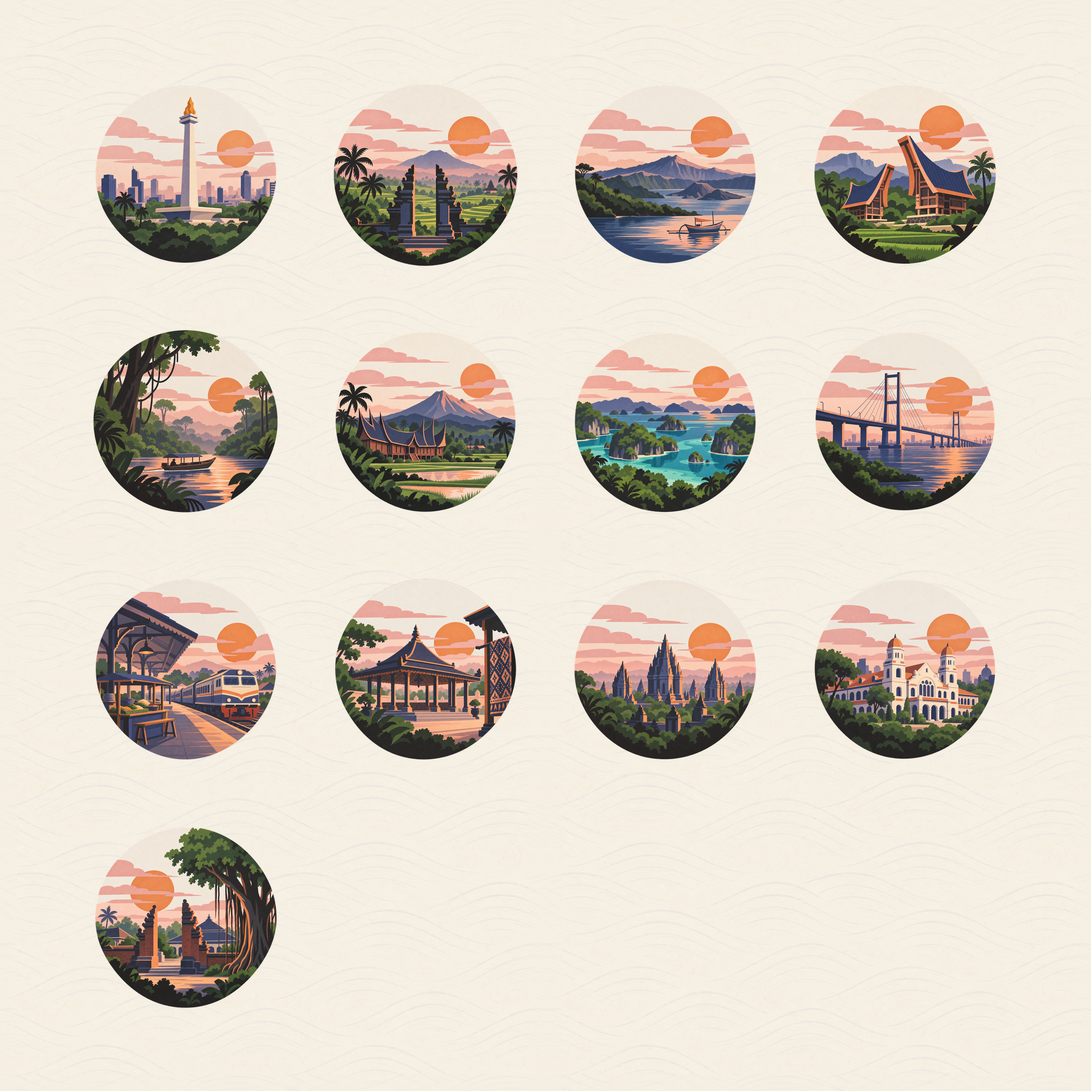
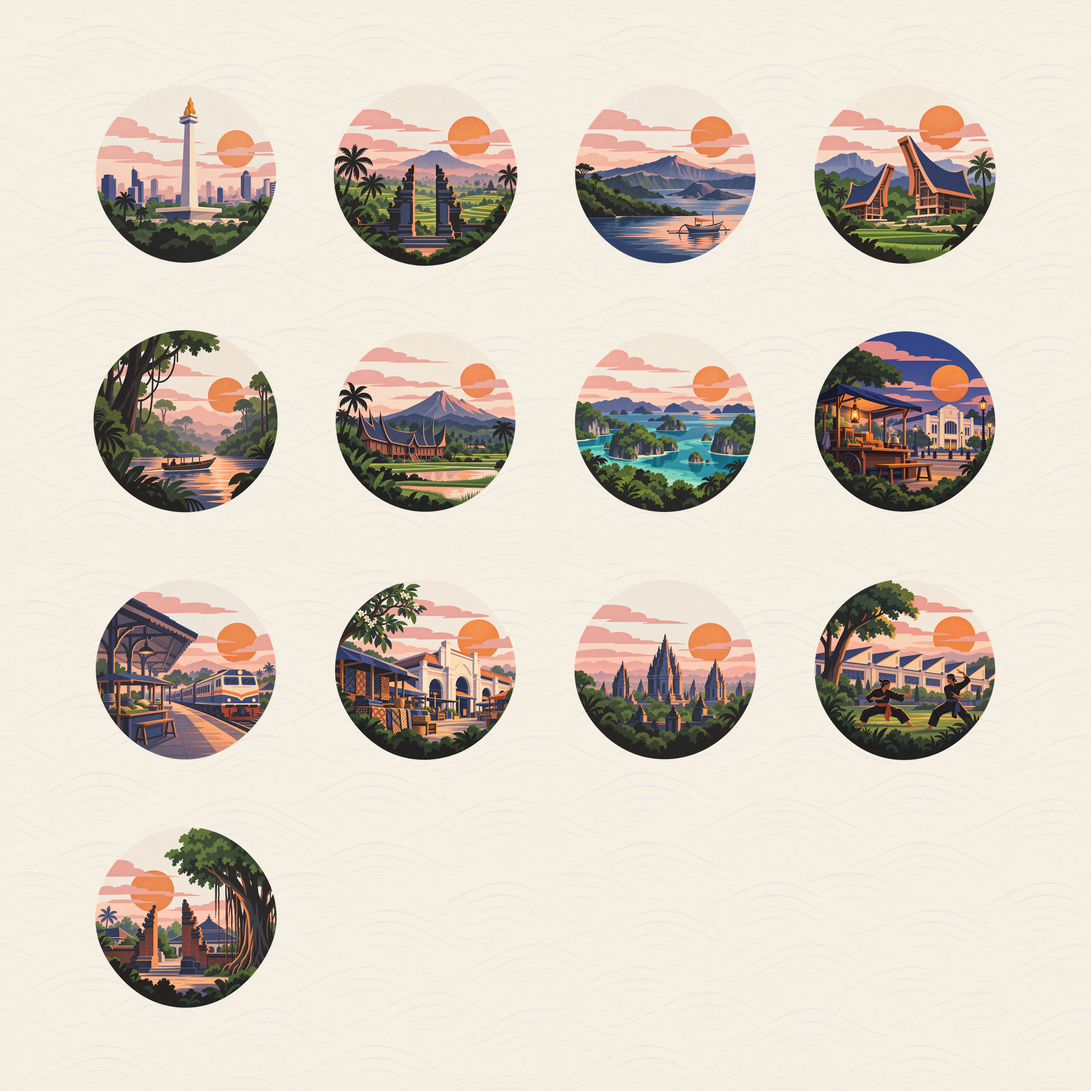
Journey Map: Jogja and Madiun vignettes for J1, J3, J5; faces for Mbak Sekar and Mas Danang
The Javanese route is now Yogyakarta and Madiun only. Codex prompt 5b
replaced the Surabaya, Solo and Semarang vignettes with Malioboro (an
angkringan by Tugu station), Beringharjo market, and Madiun Kota
Pendekar (pencak silat by the railway workshop). The old files are
removed so no art is orphaned. The two Javanese Radio hosts get their
portraits, which the Radio player picks up through the cast registry.

Claude-Session: https://claude.ai/code/session_01TjNARVkaoGmAHnjntu9hvk

Changed region(s): [[0.75, 0.2812, 0.9375, 0.4688], [0.2812, 0.5312, 0.5, 0.6875], [0.75, 0.5312, 0.9375, 0.6875]]

diff --git a/crates/app/src/map_art.rs b/crates/app/src/map_art.rs
@@ -23,11 +23,11 @@ const VIGNETTES: [(&str, &[u8], &[u8]); 13] = [
     ("bipa5", art!("kalimantan"), art!("kalimantan-sm")),
     ("bipa6", art!("sumatra"), art!("sumatra-sm")),
     ("bipa7", art!("raja-ampat"), art!("raja-ampat-sm")),
-    ("j1", art!("surabaya"), art!("surabaya-sm")),
+    ("j1", art!("malioboro"), art!("malioboro-sm")),
     ("j2", art!("madiun"), art!("madiun-sm")),
-    ("j3", art!("solo"), art!("solo-sm")),
+    ("j3", art!("beringharjo"), art!("beringharjo-sm")),
     ("j4", art!("yogyakarta"), art!("yogyakarta-sm")),
-    ("j5", art!("semarang"), art!("semarang-sm")),
+    ("j5", art!("madiun-pendekar"), art!("madiun-pendekar-sm")),
     ("j6", art!("kotagede"), art!("kotagede-sm")),
 ];
 

diff --git a/scripts/assets/export_map.py b/scripts/assets/export_map.py
@@ -16,8 +16,8 @@ OUT = ROOT / "assets" / "export" / "map"
 BACKDROPS = ("paper-light", "paper-dark")
 VIGNETTES = (
     "jakarta", "bali", "lombok", "sulawesi", "kalimantan", "sumatra",
-    "raja-ampat", "surabaya", "madiun", "solo", "yogyakarta", "semarang",
-    "kotagede",
+    "raja-ampat", "malioboro", "madiun", "beringharjo", "yogyakarta",
+    "madiun-pendekar", "kotagede",
 )
 RESAMPLE = Image.Resampling.LANCZOS
 

diff --git a/docs/VISUAL-ASSETS.md b/docs/VISUAL-ASSETS.md
@@ -445,12 +445,15 @@ watermarks, signatures or brands. Do not imitate any named artist.
    - sumatra.png: a Minangkabau rumah gadang with horn roofs and a volcano behind
    - raja-ampat.png: green karst islets in turquoise water
    Javanese train line (cities):
-   - surabaya.png: a long suspension bridge over a strait at dusk
+   - surabaya.png: a long suspension bridge over a strait at dusk (replaced by
+     malioboro.png, prompt 5b)
    - madiun.png: an old train station platform with a locomotive and a small pecel
      food stall
    - solo.png: a royal palace pavilion (pendopo) with batik cloth hanging nearby
+     (replaced by beringharjo.png, prompt 5b)
    - yogyakarta.png: Prambanan temple spires at dawn
    - semarang.png: a colonial building with many doors and arched windows
+     (replaced by madiun-pendekar.png, prompt 5b)
    - kotagede.png: an old Javanese mosque gate with a banyan tree
 
 SAVE: masters to assets/src/map/. With a small reproducible script in scripts/assets/ (Pillow or
@@ -465,13 +468,88 @@ Do not commit. List the files when done.
 
 ---
 
+## Prompt 5b — Jogja and Madiun (done)
+
+Mohamed narrowed the Javanese route to Yogyakarta and Madiun (2026-10-27). The J1 (Surabaya), J3 (Solo) and J5 (Semarang) vignettes of prompt 5 were replaced by `malioboro`, `beringharjo` and `madiun-pendekar`, and the two Javanese Radio hosts got their faces in the same session. The originals Codex sent are in the project files (`map/codex-5b-originals/`). The masters were resized to 1024 px, exported by `scripts/assets/export_map.py` and `export_personas.py --import`.
+
+```text
+Create new artwork for "Kabar", an Indonesian + Javanese learning app. Its Javanese
+route now runs only through Yogyakarta (Jogja) and Madiun, so three Journey Map
+vignettes and two Radio-host portraits are needed. Two parts, one session.
+
+HOW TO GENERATE (strict, both parts):
+- Use your image generation tool. Do NOT draw with code (no SVG, Pillow, Cairo or
+  canvas drawing).
+- Generate EACH image as its own separate request, directly at 1024x1024. Never make a
+  sheet, grid or collage and split it. Never upscale; only crop. No recolour or filter.
+HARD RULES (both parts): no text, letters, numbers, labels, signage, logos, name tags,
+watermarks or signatures anywhere. Do not imitate any named artist. Respectful,
+recognisable but simplified depictions; no stereotypes.
+PALETTE (both parts): Merapi charcoal #22201E, sawah green #4F8A3C, Bromo orange
+#EE8A5A, Bromo pink #E9A3A0, batik indigo #2B3A70, warm paper #F5EFE3 (plus natural
+skin and hair tones in part B).
+
+PART A: JOURNEY MAP VIGNETTES (1024x1024 PNG, transparent background)
+Match the existing set in assets/src/map/ (open jakarta.png, madiun.png and
+yogyakarta.png first, and contact-sheet.png): each a tiny self-contained scene inside a
+soft circle, like a sticker on a travel map. Calm, warm, grown-up travel-journal
+illustration; flat vector-like shapes, soft layered depth, gentle paper grain, minimal
+gradients; a low Bromo-orange sun (or moon) disc and soft pink clouds in the sky; dark
+green foliage framing the lower edge of the circle. Simple shapes, readable at 128px.
+Never childish or noisy, no glossy 3D, no photorealism.
+- malioboro.png (J1, Jogja): early evening on Malioboro street. In front, an
+  angkringan: a small wooden food cart under a canvas tarp, a kettle steaming on a
+  charcoal brazier, a warm oil lamp, a low bench. Behind, the white colonial facade of
+  Tugu railway station with its arched windows. Sky in blue hour, the orange disc as a
+  rising moon, a few lanterns glowing. No signs or writing on the cart or station.
+- beringharjo.png (J3, Jogja): the old Beringharjo market hall: a long colonial-era
+  market front with tall arched entrances, and in front of it stalls with folded
+  batik cloth in indigo and brown, and woven baskets. Morning light, the orange sun
+  low, a frangipani or banyan branch at one side.
+- madiun-pendekar.png (J5, Madiun "Kota Pendekar"): two pencak silat practitioners in
+  black pangsi outfits with sashes, mid-stance in a calm, graceful pose (not fighting
+  aggressively), on a grassy square. Behind them, the long saw-tooth roofs of Madiun's
+  old railway workshop and a teak tree. Dusk, orange sun. (The existing madiun.png
+  already shows the station platform and a pecel stall, so do NOT repeat those.)
+Check all three on contact-sheet.png next to the existing vignettes and regenerate any
+that don't match the set.
+
+PART B: PORTRAITS (1024x1024 PNG, opaque)
+Match the approved portraits in assets/src/personas/ (open kak-tiara.webp,
+kak-reza.webp and mas-dimas.webp first) exactly in hand, light and framing.
+Calm, warm, grown-up illustration; flat vector-like shapes, soft layered depth, gentle
+paper grain, warm soft light. Not photorealistic, not anime, not cartoonish. Head and
+shoulders, three-quarter view, friendly natural expression, eyes toward the viewer;
+face centred with room around it so a circle crop never cuts the head. Realistic
+proportions, no caricature. Original fictional characters: must not resemble any
+real person. Background: a soft, blurred hint of the setting.
+- mbak-sekar.png (Mbak Sekar, Yogyakarta): Kabar Radio's Javanese host, a calm Jogja
+  schoolteacher in her late 20s, hair in a neat low bun, a soft brown batik blouse,
+  studio headphones around her neck. Background: a cosy radio booth with a microphone
+  on an arm and a small gamelan gong on the shelf.
+- mas-danang.png (Mas Danang, Madiun): Kabar Radio's Javanese co-host, a cheerful
+  Madiun man in his late 20s who jokes a lot, short neat hair, a wide grin, a green
+  batik shirt with sleeves rolled up, studio headphones around his neck. Background: a
+  cosy radio booth with a microphone on an arm.
+
+SAVE: vignettes to assets/src/map/ and portraits to assets/src/personas/, with exactly
+these file names (malioboro.png, beringharjo.png, madiun-pendekar.png, mbak-sekar.png,
+mas-danang.png). Don't run any export script and don't touch other files: Kabar's own
+scripts make the web sizes.
+
+Do not commit. List the 5 files when done, and confirm each was generated natively at
+1024x1024 with the image tool.
+```
+
+---
+
 ## Prompt 6 — Portraits of the cast (6a–6e)
 
 Every recurring character in `content/cast.yaml` (except the learner) gets one portrait, named by its cast `id`: `assets/src/personas/<id>.webp`. How each one looks, and which batch draws it, is in `assets/portraits.yaml`. The prompts themselves are generated into [`assets/portrait-prompts.md`](../assets/portrait-prompts.md) by `scripts/assets/portrait_prompts.py`, so they always match the cast. Each batch is self-contained; send them one at a time:
 
 | batch | who | images |
 |---|---|---|
-| 6a | coach, chat partners, Radio hosts (with 4 expressions for the five you talk to) | 27 · **done**, in the app |
+| 6a | coach, chat partners, Radio hosts (with 4 expressions for the five you talk to) | 29 · **done**, in the app (Mbak Sekar and Mas Danang came with prompt 5b) |
 | 6b | the Sinetron cast | 11 · **done**, in the app |
 | 6c | Indonesian lessons | 11 · **done**, in the app |
 | 6d | Javanese lessons and the Unggah-Ungguh game | 11 · **done**, in the app |

diff --git a/assets/portrait-prompts.md b/assets/portrait-prompts.md
@@ -1,7 +1,7 @@
 # Portrait prompts (Codex, prompt 6a-6e)
 Generated from `content/cast.yaml` and `assets/portraits.yaml` by `scripts/assets/portrait_prompts.py`; do not edit by hand. Send one batch at a time; each is self-contained.
 
-## Prompt 6a (7 characters)
+## Prompt 6a (9 characters)
 
 ```text
 Create character portraits for "Kabar", an Indonesian + Javanese learning app.
@@ -50,13 +50,17 @@ CHARACTERS. Each file is named by the character's id; never rename a file.
   Who they are: Kabar Radio host, a Jakarta teacher who travels the journey with you. Shares a voice with Mbak Gadis.
 - kak-reza.png (Kak Reza, Bandung): a friendly Bandung office worker in his mid 30s, short hair, rimless glasses, a plain shirt with rolled sleeves, studio headphones around his neck. Background: a cosy radio booth with a microphone on an arm.
   Who they are: Kabar Radio co-host, a Bandung office worker married to Laras. Shares a voice with Mas Ardi.
+- mbak-sekar.png (Mbak Sekar, Yogyakarta): a calm Javanese schoolteacher from Yogyakarta in her late 20s, hair in a neat low bun, a soft brown batik blouse, studio headphones around her neck. Background: a cosy radio booth with a microphone on an arm and a small gamelan gong on the shelf.
+  Who they are: Kabar Radio's Javanese host, a Jogja teacher who speaks everyday Jogja ngoko with friends and shop-and-neighbour krama with elders. Shares a voice with Bu Siti.
+- mas-danang.png (Mas Danang, Madiun): a cheerful Madiun radio host in his late 20s, short neat hair, a wide grin, a green batik shirt with sleeves rolled up, studio headphones around his neck. Background: a cosy radio booth with a microphone on an arm.
+  Who they are: Kabar Radio's Javanese co-host, a Madiun lad who speaks everyday Madiun ngoko, loves pecel and jokes a lot. Replaced Mas Galih when the Javanese track became Jogja and Madiun only. Shares a voice with Mas Dimas.
 
 THEN, for kak-nur, mbak-gadis, mas-ardi, mas-dimas, bu-siti: 4 extra expressions each, with the SAME face, hair,
 clothes, framing and background: <id>-listening.png, <id>-laughing.png,
 <id>-thinking.png, <id>-explaining.png (a light hand gesture). Keep the identity
 consistent; regenerate any that drift.
 
-SAVE: all 27 masters to assets/src/personas/ with exactly the file names above.
+SAVE: all 29 masters to assets/src/personas/ with exactly the file names above.
 Nothing else: Kabar's own script (scripts/assets/export_personas.py) makes the
 web sizes and the cast sheet.
 
@@ -231,10 +235,10 @@ HARD RULES: no text, letters, numbers, logos, name tags or cards with writing,
 watermarks or signatures. Square 1024x1024 PNG.
 
 CHARACTERS. Each file is named by the character's id; never rename a file.
-- cak-heru.png (Cak Heru, Surabaya): a Surabaya man in his late 20s, a big easygoing grin, short hair, a T-shirt and an open shirt, a motorbike helmet in hand. Background: a Surabaya street with old buildings.
-  Who they are: Your Surabaya mate in J1; speaks Arek Javanese.
-- mas-yudha.png (Mas Yudha, Surabaya (Gubeng)): a Surabaya university student, early 20s, glasses, a hoodie, earbuds around his neck. Background: Gubeng station hall.
-  Who they are: A student in Surabaya you meet in J1; later sends you code-mixed voice notes.
+- cak-heru.png (Mas Heru, Yogyakarta): a Surabaya man in his late 20s, a big easygoing grin, short hair, a T-shirt and an open shirt, a motorbike helmet in hand. Background: a Surabaya street with old buildings.
+  Who they are: Runs an angkringan near Malioboro and is your Jogja mate in J1; speaks Mataraman ngoko.
+- mas-yudha.png (Mas Yudha, Yogyakarta (Kotabaru)): a Surabaya university student, early 20s, glasses, a hoodie, earbuds around his neck. Background: Gubeng station hall.
+  Who they are: A student in Jogja you meet in J1; later sends you code-mixed voice notes.
 - bu-darmi.png (Bu Darmi, Caruban): the pecel warung owner in Caruban, late 50s, a headscarf, a batik apron, a plate of pecel on a banana leaf in hand. Background: a roadside warung with a bench.
   Who they are: Runs the pecel warung in Caruban where you order food in J2.
 - pak-harjo.png (Pak Harjo, Solo): an older Javanese gentleman from Solo, late 60s, a blangkon headcloth, a lurik jacket, a dignified, patient face. Background: a Solo pendopo with carved wooden pillars.
@@ -242,7 +246,7 @@ CHARACTERS. Each file is named by the character's id; never rename a file.
 - bu-harjo.png (Bu Harjo, Solo): Pak Harjo's wife, mid 60s, hair in a neat sanggul bun, a kebaya with a batik kain, a gentle smile. Background: a Javanese house interior with a batik cloth on a stand.
   Who they are: Pak Harjo's wife.
 - mbah-putri.png (Mbah Putri, a village near Yogyakarta): Mas Dimas's grandmother, late 70s, silver hair in a bun, a kebaya and a selendang over her shoulder, deep laugh lines. Background: a village house porch near Yogyakarta with rice fields beyond.
-  Who they are: Mas Dimas's grandmother. You use krama inggil for her; she answers a guest in simple polite krama. J4 chat partner.
+  Who they are: Mas Dimas's grandmother. You use krama inggil for her; she answers a guest in simple polite krama. J3 and J4 chat partner.
 - pak-karto.png (Pak Karto, Solo): an elderly neighbour from Solo, about 75, a black peci, a white beard, a sarong and a plain shirt. Background: a quiet Solo lane with a low fence.
   Who they are: Your elderly neighbour in the Unggah-Ungguh game; krama with a little krama inggil.
 - pak-harsono.png (Pak Harsono, Yogyakarta): the Yogyakarta host father, early 60s, a blangkon, a surjan striped jacket, a calm, formal kindness. Background: a Yogyakarta joglo house with a garden.

diff --git a/ATTRIBUTION.md b/ATTRIBUTION.md
@@ -49,6 +49,6 @@ The UI fonts are bundled from the [Fontsource](https://fontsource.org) npm packa
 - App icon ("Dawn over sawah"): original artwork created for Kabar with Codex (`docs/VISUAL-ASSETS.md`, prompts 1–2). Masters in `assets/src/icon/`; every platform size is exported by `scripts/assets/export_icons.py`.
 - Souvenir cards: original artwork created for Kabar. Six cards were drawn with Codex (`docs/VISUAL-ASSETS.md`, prompts 4b–4c); the other 101 are drawn in code by `scripts/assets/draw_souvenirs.py`. Masters are in `assets/src/souvenirs/`, and `scripts/assets/export_souvenirs.py` exports the web sizes.
 - Character portraits: original artwork created for Kabar with Codex (`docs/VISUAL-ASSETS.md`, prompt 6, from `assets/portraits.yaml`). Masters are in `assets/src/personas/`, and `scripts/assets/export_personas.py` exports the app sizes.
-- Journey Map art (paper backdrops and 13 landmark vignettes): original artwork created for Kabar with Codex (`docs/VISUAL-ASSETS.md`, prompt 5). Masters in `assets/src/map/`; WebP sizes exported by `scripts/assets/export_map.py` and embedded by `crates/app/src/map_art.rs`. The map geometry itself is Natural Earth (see above).
+- Journey Map art (paper backdrops and 13 landmark vignettes): original artwork created for Kabar with Codex (`docs/VISUAL-ASSETS.md`, prompts 5 and 5b). Masters in `assets/src/map/`; WebP sizes exported by `scripts/assets/export_map.py` and embedded by `crates/app/src/map_art.rs`. The map geometry itself is Natural Earth (see above).
 - Hero, empty states, lesson-end gong and notebook paper: original artwork drawn in code for Kabar by `scripts/assets/draw_misc.py` (`docs/VISUAL-ASSETS.md`, prompt 7). Masters are in `assets/src/misc/`, and `crates/app/src/misc_art.rs` embeds the WebP exports.
 - Background pattern: original kawung-inspired geometry generated in code (`crates/app/src/theme.rs`).
